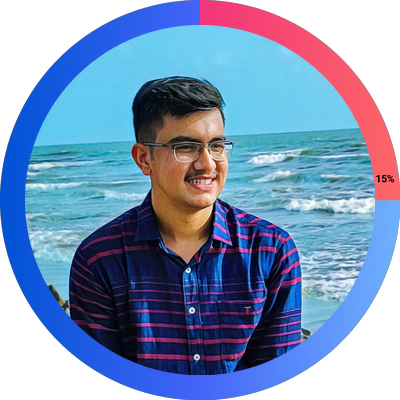
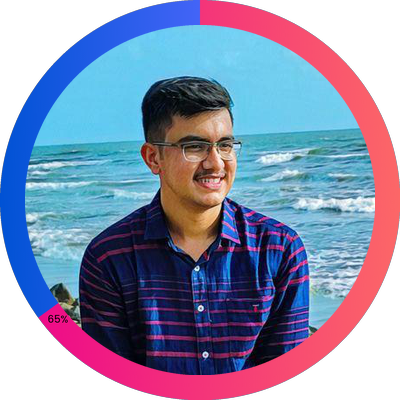
🚀

diff --git a/main.py b/main.py
@@ -1,16 +1,15 @@
-import base64
 from os import getenv
-from io import BytesIO
 from typing import Any
 from twitter import User
 from config import Config
-from image import create_slice, composite_avatar, calculate_progress
+from actions import calculate_progress, update_progress, update_cached_avatar
 from deta import app, Deta
 
 deta = Deta(getenv("DETA_PROJECT_KEY"))
 db = deta.Base("random")
 db_key = "twitter-progress-bar"
 
+@app.lib.run(action="update")
 @app.lib.cron()
 def cron_job(event: Any):
     """Run at set intervals and update image and cache as required.
@@ -25,29 +24,16 @@ def cron_job(event: Any):
     percent_progress, slice_angle = calculate_progress(user.followers_count, Config.track_mark)
 
     if not user.profile_img_url == cache["avatar_url"]:
-        og_avatar = user.fetch_avatar()
-        og_avatar_bytes = BytesIO()
-        og_avatar.save(og_avatar_bytes, "JPEG")
-        og_avatar = base64.b64encode(og_avatar_bytes.getvalue()).decode("utf-8")
-        cache.update({'og_avatar': og_avatar})
-
-    if not percent_progress == cache["percent_progress"]:
-        
-        base_img_buffer = BytesIO(base64.b64decode(cache["og_avatar"].encode("utf-8")))
-
-        if Config.use_gradient:
-            slice_img = create_slice(angle=slice_angle, txt=str(percent_progress)+"%", txt_color=Config.txt_color, font=Config.font_file, gradient=Config.arc_gradient)
-            composite_img = composite_avatar(base_img_buffer, slice_img, slice_angle, gradient=Config.base_gradient)
-        else:
-            slice_img = create_slice(angle=slice_angle, txt=str(percent_progress)+"%", txt_color=Config.txt_color, font=Config.font_file, arc_clr=Config.arc_solid_clr)
-            composite_img = composite_avatar(base_img_buffer, slice_img, slice_angle, base_clr=Config.base_solid_clr)
-
-        new_avatar = BytesIO()
-        composite_img.save(new_avatar, "PNG")
-        avatar_url = user.update_avatar(new_avatar)
-        cache.update({"percent_progress": percent_progress, "avatar_url": avatar_url})
-
-    db.put(cache, db_key)
+        cache = update_cached_avatar(user, cache)
+        cache = update_progress(user, cache, percent_progress, slice_angle)
+        db.put(cache, db_key)
+        return "Update Complete"
+    elif not percent_progress == cache["percent_progress"]:
+        cache = update_progress(user, cache, percent_progress, slice_angle)
+        db.put(cache, db_key)
+        return "Update Complete"
+    else:
+        return "No Updates"
 
 @app.lib.run(action="reset-count")
 def run_now(event):
@@ -58,4 +44,5 @@ def run_now(event):
 @app.lib.run(action="full-reset")
 def full_reset(event):
     """ Empty the entire cache. """
-    db.put({"percent_progress": 0, "og_avatar": "", "avatar_url": ""})
+    db.put({"percent_progress": 0, "og_avatar": "", "avatar_url": ""}, db_key)
+    return "Full Reset"

diff --git a/actions.py b/actions.py
@@ -1,0 +1,36 @@
+import base64
+from io import BytesIO
+from typing import Tuple
+from twitter import User
+from config import Config
+from image import create_slice, composite_avatar
+
+def calculate_progress(followers: int, track_mark: int) -> Tuple[int, float]:
+    # followers % track_mark helps calulate progress for every lapse of desired followers
+    percentage = ((followers%track_mark)/track_mark)*100
+    angle = (percentage/100)*360
+    return (int(percentage), float(angle))
+
+def update_cached_avatar(user: User, cache: dict) -> dict:
+    og_avatar = user.fetch_avatar()
+    og_avatar_bytes = BytesIO()
+    og_avatar.save(og_avatar_bytes, "JPEG")
+    og_avatar = base64.b64encode(og_avatar_bytes.getvalue()).decode("utf-8")
+    cache.update({'og_avatar': og_avatar})
+    return cache
+
+def update_progress(user: User, cache: dict, percent_progress: int, slice_angle: float) -> dict:
+    base_img_buffer = BytesIO(base64.b64decode(cache["og_avatar"].encode("utf-8")))
+
+    if Config.use_gradient:
+        slice_img = create_slice(angle=slice_angle, txt=str(percent_progress)+"%", txt_color=Config.txt_color, font_file=Config.font_file, gradient=Config.arc_gradient)
+        composite_img = composite_avatar(base_img_buffer, slice_img, slice_angle, gradient=Config.base_gradient)
+    else:
+        slice_img = create_slice(angle=slice_angle, txt=str(percent_progress)+"%", txt_color=Config.txt_color, font_file=Config.font_file, arc_clr=Config.arc_solid_clr)
+        composite_img = composite_avatar(base_img_buffer, slice_img, slice_angle, base_clr=Config.base_solid_clr)
+
+    new_avatar = BytesIO()
+    composite_img.save(new_avatar, "PNG")
+    avatar_url = user.update_avatar(new_avatar)
+    cache.update({"percent_progress": percent_progress, "avatar_url": avatar_url})
+    return cache

diff --git a/image.py b/image.py
@@ -7,13 +7,6 @@ from PIL import Image, ImageDraw, ImageFont
 h_w = 400 # square image
 base_size = (h_w, h_w)
 
-def calculate_progress(followers: int, track_mark: int) -> Tuple[int, float]:
-    # followers % track_mark helps calulate progress for every lapse of desired followers
-    percentage = ((followers%track_mark)/track_mark)*100
-    angle = (percentage/100)*360
-    print('completed calculations')
-    return (int(percentage), float(angle))
-
 def create_circular_mask(size: Tuple[float, float], angle: Optional[float] = 360) -> Image.Image:
     """Return a circular/sliced alpha-mask image.
 
